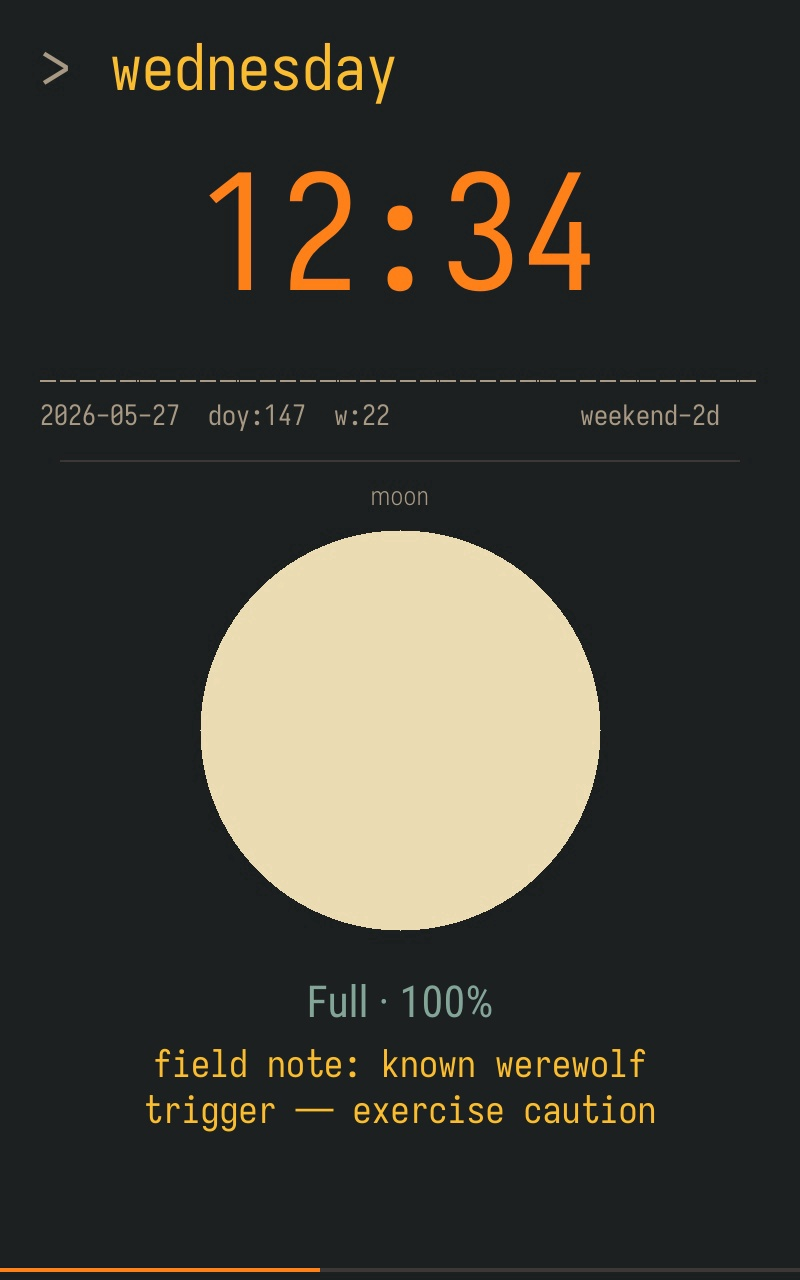
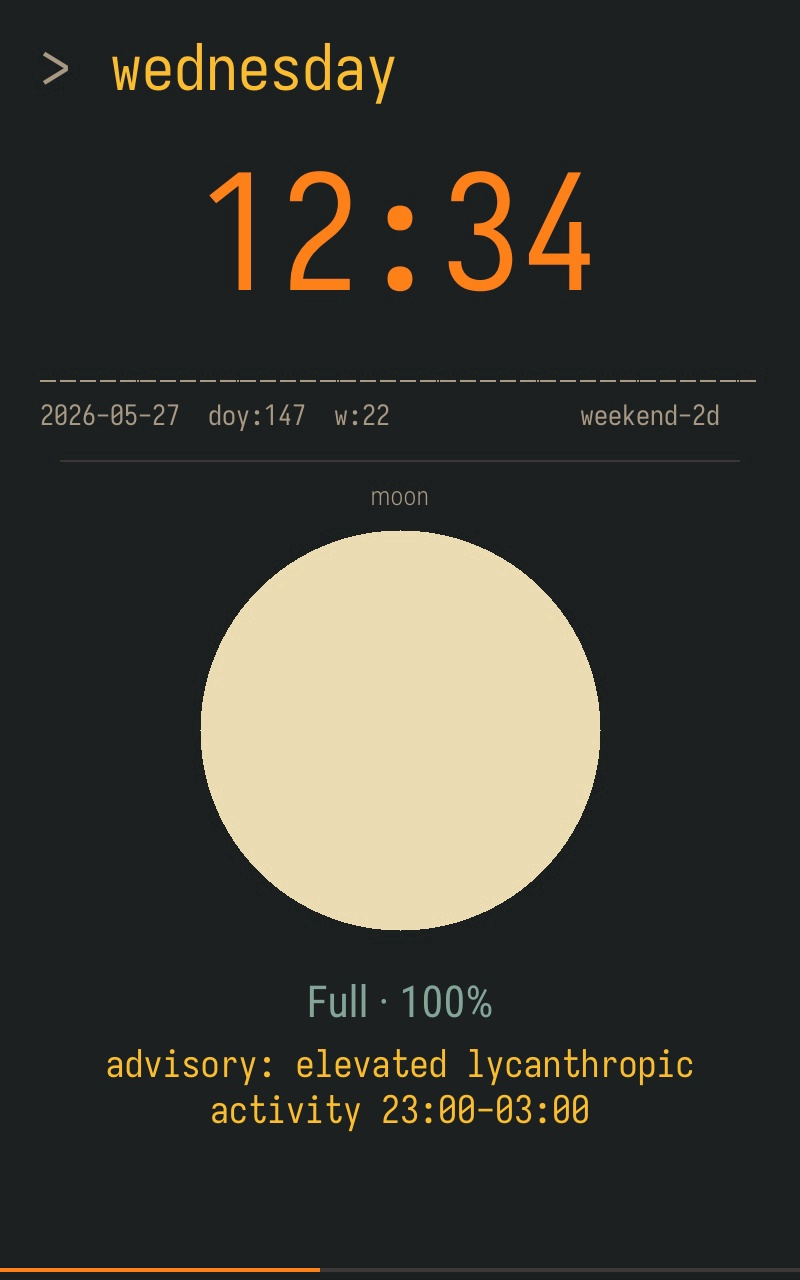
screenshots: bake agenda + pickup + genart
Extends TestRefreshScreenshots's fixture table with the three scenes
added in d568b5a but missed by the original implementer. Required
adding an "agenda" stub widget (gates buildScenes inclusion) and a
fixture DIVOOM_PICKUP_SCHEDULE so pickupScene() returns non-nil.

agenda + pickup take "" raw fixtures — their content is composed in
each scene's OnActivate (next-event time math / pickup window check)
rather than fetched from a widget. genart's "" raw is the same — its
caption is computed from the date.

Changed region(s): [[0.125, 0.8125, 0.875, 0.9062]]

diff --git a/cmd/divoom/screenshot_test.go b/cmd/divoom/screenshot_test.go
@@ -95,13 +95,27 @@ func TestRefreshScreenshots(t *testing.T) {
 		{"github", "14238|287|4|11"},
 		{"reddit", "pcgaming|Half-Life 3 finally confirmed at The Game Awards|polygon.com|2841|gabe_irl|2h|1247"},
 		{"seismic", "3.4|7|142|NW|3h ago"},
+		{"agenda", "Standup|in 23m|10:30|Dad's birthday|Thu|all day"},
+		// pickup scene's text is composed in its OnActivate from the
+		// DIVOOM_PICKUP_SCHEDULE env (set below) — no raw widget output.
+		{"pickup", ""},
+		// genart scene's caption is composed in its OnActivate from the
+		// date — no raw widget output.
+		{"genart", ""},
 	}
 
-	// Build the scene set. Provide a non-nil stub for the github widget
-	// so buildScenes includes the github scene.
+	// pickupScene() returns nil when DIVOOM_PICKUP_SCHEDULE is unset,
+	// dropping the scene from buildScenes. Set a fixture schedule so it
+	// participates in this test; the actual eligibility window doesn't
+	// matter because RenderElements bypasses the WeightModifier check.
+	t.Setenv("DIVOOM_PICKUP_SCHEDULE", "trash:thu,recycle:thu")
+
+	// Build the scene set. Provide a non-nil stub for the github + reddit
+	// + agenda widgets so buildScenes includes their scenes.
 	widgets := map[string]widget.Widget{
 		"github": stubWidget{},
 		"reddit": stubWidget{},
+		"agenda": stubWidget{},
 	}
 	scenes := buildScenes(widgets)
 	sceneByName := map[string]int{}